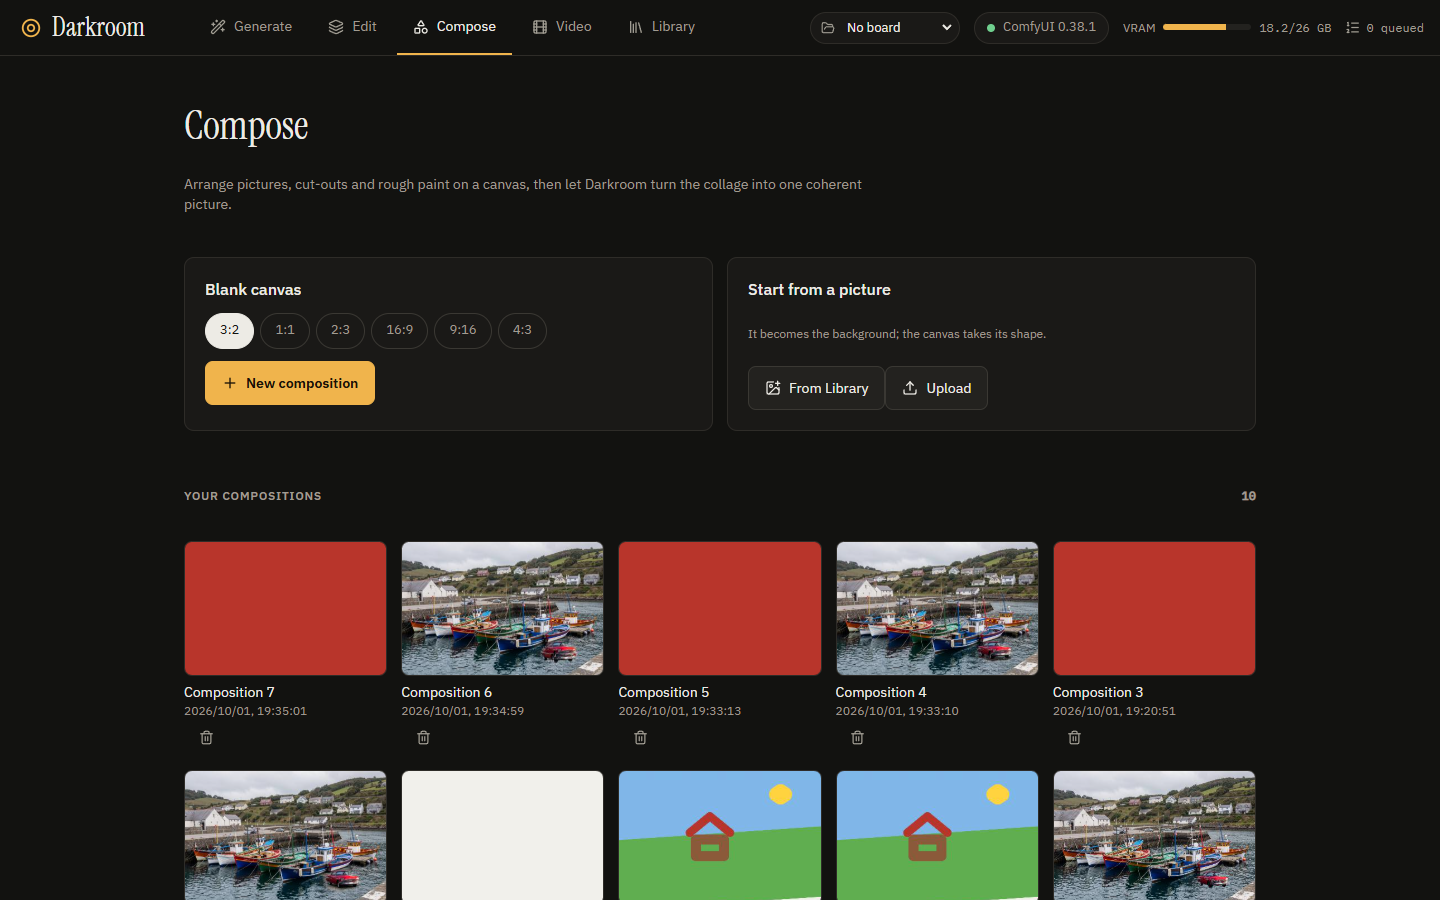
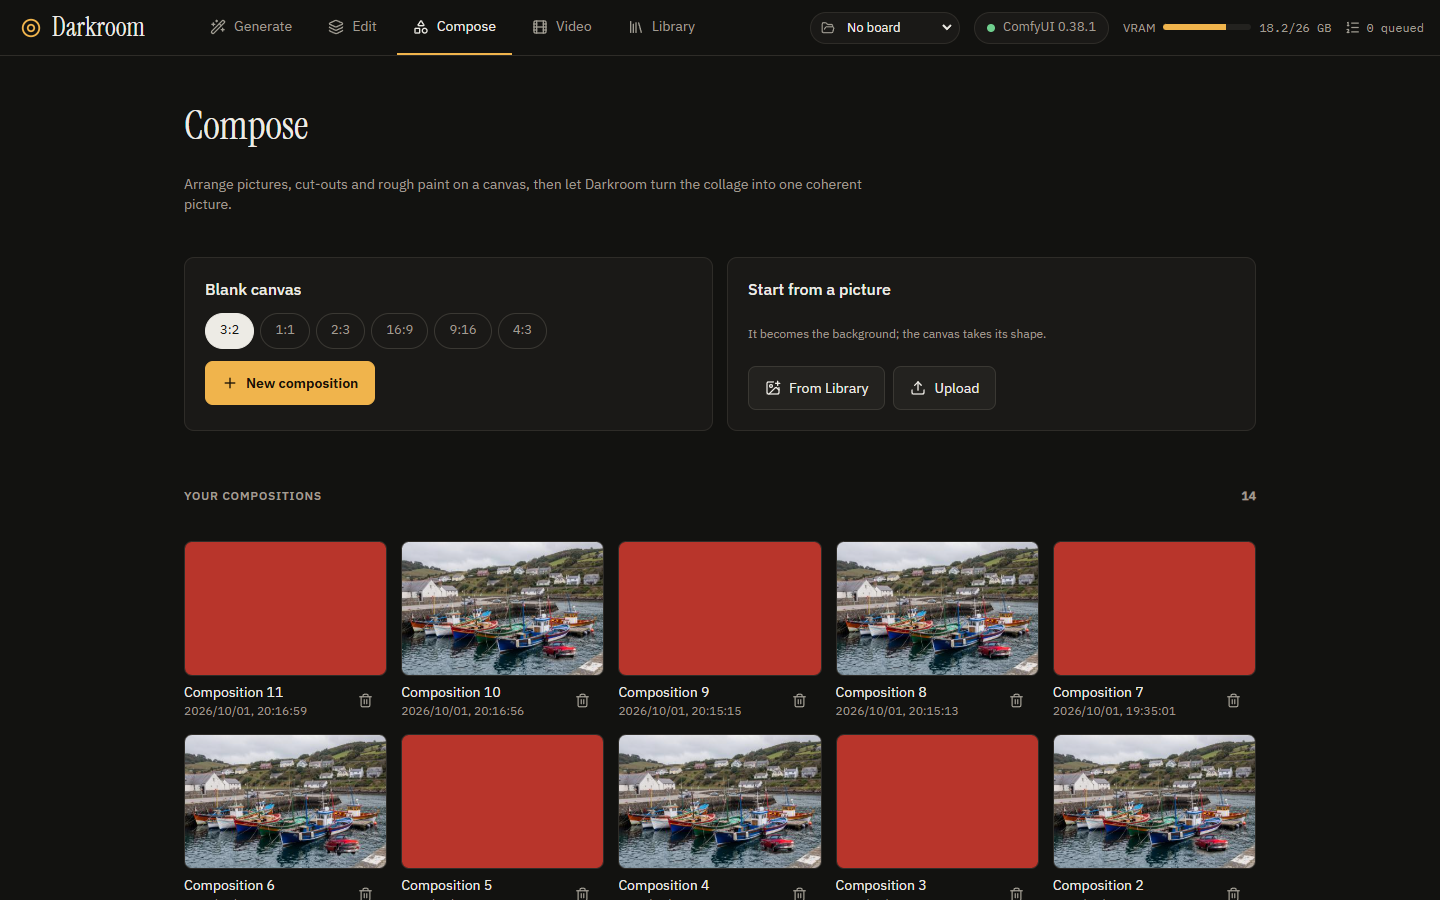
Compose: erase parts of pictures and cut-outs (saved as a new file, Undo restores); compose-row layout fix

Changed region(s): [[0.125, 0.7778, 0.875, 1.0], [0.625, 0.4044, 0.6875, 0.4356], [0.375, 0.7156, 0.4062, 0.7467]]

diff --git a/src/web/screens/Compose.tsx b/src/web/screens/Compose.tsx
@@ -137,7 +137,7 @@ function ComposeStart() {
           <section className="compose-new-card" aria-label="Start from a picture">
             <h2>Start from a picture</h2>
             <p className="note">It becomes the background; the canvas takes its shape.</p>
-            <div className="row" style={{ gap: 8 }}>
+            <div className="compose-row" style={{ gap: 8 }}>
               <button className="btn" onClick={() => setPicking(true)} disabled={busy}>
                 <ImagePlus size={16} /> From Library
               </button>
@@ -164,7 +164,7 @@ function ComposeStart() {
                 <button className="compose-thumb" onClick={() => go('compose', c.id)} aria-label={`Open ${c.name}`}>
                   {c.thumb ? <img src={c.thumb} alt="" /> : <span className="note">No preview</span>}
                 </button>
-                <div className="row" style={{ justifyContent: 'space-between', gap: 6 }}>
+                <div className="compose-row" style={{ justifyContent: 'space-between', gap: 6 }}>
                   <span className="compose-name" title={c.name}>
                     {c.name}
                     <small className="note">{new Date(c.updated_at).toLocaleString()}</small>
@@ -189,7 +189,7 @@ function ComposeStart() {
 type Drag =
   | { kind: 'move'; id: string; sx: number; sy: number; ox: number; oy: number; before: ComposeDoc }
   | { kind: 'scale'; id: string; ax: number; ay: number; w0: number; h0: number; before: ComposeDoc }
-  | { kind: 'paint'; id: string | null; erase: boolean; last: { x: number; y: number }; before: ComposeDoc };
+  | { kind: 'paint'; id: string | null; erase: boolean; picture?: boolean; last: { x: number; y: number }; before: ComposeDoc };
 
 function ComposeEditor({ id }: { id: string }) {
   const [name, setName] = useState('');
@@ -206,6 +206,9 @@ function ComposeEditor({ id }: { id: string }) {
   const [jobIds, setJobIds] = useState<string[]>([]);
   const [view, setView] = useState<string | null>(null);
   const [busyLayer, setBusyLayer] = useState<string | null>(null);
+  /** Erasing a picture: it is drawn on a working canvas at full resolution (shown in its place) until saved. */
+  const [erasingId, setErasingId] = useState<string | null>(null);
+  const eraseWork = useRef<{ id: string; canvas: HTMLCanvasElement } | null>(null);
   const [picking, setPicking] = useState(false);
   const [rendering, setRendering] = useState(false);
   const [describing, setDescribing] = useState(false);
@@ -417,14 +420,48 @@ function ComposeEditor({ id }: { id: string }) {
     ctx.restore();
   };
 
+  const erasePicture = (l: ComposeLayer, from: { x: number; y: number }, to: { x: number; y: number }) => {
+    const c = eraseWork.current?.canvas;
+    if (!c) return;
+    const map = (q: { x: number; y: number }) => {
+      const u = (q.x - l.x) / l.w;
+      return { x: (l.flip ? 1 - u : u) * c.width, y: ((q.y - l.y) / l.h) * c.height };
+    };
+    const a = map(from);
+    const b = map(to);
+    const ctx = c.getContext('2d')!;
+    ctx.save();
+    ctx.globalCompositeOperation = 'destination-out';
+    ctx.lineWidth = (size * c.width) / l.w;
+    ctx.lineCap = ctx.lineJoin = 'round';
+    ctx.beginPath();
+    ctx.moveTo(a.x, a.y);
+    ctx.lineTo(b.x + 0.01, b.y);
+    ctx.stroke();
+    ctx.restore();
+  };
+
   const onPointerDown = async (e: React.PointerEvent) => {
     if (!doc || e.button !== 0) return;
     const p = toCanvas(e);
     (e.currentTarget as HTMLElement).setPointerCapture(e.pointerId);
     if (tool === 'brush' || tool === 'eraser') {
       const erase = tool === 'eraser';
+      if (erase && sel?.kind === 'picture' && !sel.hidden) {
+        if (busyLayer) return;
+        const img = await loadImg(layerUrl(sel));
+        const c = makeCanvas(img.naturalWidth, img.naturalHeight);
+        c.getContext('2d')!.drawImage(img, 0, 0);
+        c.style.width = c.style.height = '100%';
+        c.style.display = 'block';
+        eraseWork.current = { id: sel.id, canvas: c };
+        setErasingId(sel.id);
+        setDrag({ kind: 'paint', id: sel.id, erase: true, picture: true, last: p, before: doc });
+        erasePicture(sel, p, p);
+        return;
+      }
       const target = sel?.kind === 'paint' ? sel.id : null;
-      if (erase && !target) return toast('Select a paint layer to erase from.', 'info');
+      if (erase && !target) return toast('Select a picture, cut-out or paint layer to erase from.', 'info');
       setDrag({ kind: 'paint', id: target, erase, last: p, before: doc });
       strokeTo(p, p, erase, target ? paint(target)! : null);
       return;
@@ -450,7 +487,11 @@ function ComposeEditor({ id }: { id: string }) {
   const onPointerMove = (e: React.PointerEvent) => {
     if (!drag || !doc) return;
     const p = toCanvas(e);
-    if (drag.kind === 'paint') {
+    if (drag.kind === 'paint' && drag.picture) {
+      const l = doc.layers.find((x) => x.id === drag.id);
+      if (l) erasePicture(l, drag.last, p);
+      setDrag({ ...drag, last: p });
+    } else if (drag.kind === 'paint') {
       strokeTo(drag.last, p, drag.erase, drag.id ? paint(drag.id)! : null);
       setDrag({ ...drag, last: p });
     } else if (drag.kind === 'move') {
@@ -471,6 +512,29 @@ function ComposeEditor({ id }: { id: string }) {
     setDrag(null);
     if (d.kind !== 'paint') {
       if (d.before !== doc) commit(doc, d.before);
+      return;
+    }
+    if (d.picture) {
+      // the erased picture is saved as a new file; the old one stays, so Undo brings it back
+      const work = eraseWork.current;
+      const lid = d.id!;
+      if (!work) return setErasingId(null);
+      setBusyLayer(lid);
+      void (async () => {
+        try {
+          const up = await api.upload(await toBlob(work.canvas), 'erased.png');
+          await loadImg(inputUrl(up.name)); // loaded before it replaces the working canvas: no flicker
+          const cur = docRef.current!;
+          const isBg = cur.layers.findIndex((l) => l.id === lid) === backgroundIndex(cur);
+          commit({ ...cur, layers: cur.layers.map((l) => (l.id === lid ? { ...l, src: up.name, cutout: l.cutout || !isBg } : l)) }, d.before);
+        } catch (err) {
+          toast(`Could not save the erased picture: ${(err as Error).message}`, 'error');
+        } finally {
+          eraseWork.current = null;
+          setErasingId(null);
+          setBusyLayer(null);
+        }
+      })();
       return;
     }
     if (d.erase) {
@@ -605,7 +669,7 @@ function ComposeEditor({ id }: { id: string }) {
   const TOOLS: { id: Tool; label: string; key: string; icon: typeof Brush }[] = [
     { id: 'move', label: 'Move and scale', key: 'V', icon: MousePointer2 },
     { id: 'brush', label: 'Paint', key: 'B', icon: Brush },
-    { id: 'eraser', label: 'Erase paint', key: 'E', icon: Eraser },
+    { id: 'eraser', label: 'Erase', key: 'E', icon: Eraser },
   ];
 
   return (
@@ -654,7 +718,7 @@ function ComposeEditor({ id }: { id: string }) {
           {view ? (
             <div className="compose-view">
               <img src={fileUrl(view)} alt="Render" onError={() => setView(null)} />
-              <div className="row compose-view-bar">
+              <div className="compose-row compose-view-bar">
                 <button className="btn sm" onClick={() => setView(null)}>
                   Back to canvas
                 </button>
@@ -681,6 +745,16 @@ function ComposeEditor({ id }: { id: string }) {
               {doc.layers.map((l) =>
                 l.kind === 'paint' ? (
                   <PaintLayer key={l.id} layer={l} doc={doc} hidden={!!l.hidden} register={(el) => (el ? paintEls.current.set(l.id, el) : paintEls.current.delete(l.id))} />
+                ) : l.id === erasingId ? (
+                  <div
+                    key={l.id}
+                    className="compose-piece"
+                    ref={(el) => {
+                      const c = eraseWork.current?.canvas;
+                      if (el && c && c.parentElement !== el) el.replaceChildren(c);
+                    }}
+                    style={{ left: l.x * scale, top: l.y * scale, width: l.w * scale, height: l.h * scale, transform: l.flip ? 'scaleX(-1)' : undefined }}
+                  />
                 ) : (
                   <img
                     key={l.id}
@@ -742,7 +816,7 @@ function ComposeEditor({ id }: { id: string }) {
       <aside className="panel right" aria-label="Composition settings">
         <div className="panel-scroll">
           <div>
-            <div className="row" style={{ justifyContent: 'space-between' }}>
+            <div className="compose-row" style={{ justifyContent: 'space-between' }}>
               <button className="btn ghost sm" onClick={() => go('compose')}>
                 ← All compositions
               </button>
@@ -758,7 +832,7 @@ function ComposeEditor({ id }: { id: string }) {
 
           <div>
             <h3 className="section-label">Add</h3>
-            <div className="row" style={{ gap: 6, flexWrap: 'wrap' }}>
+            <div className="compose-row" style={{ gap: 6, flexWrap: 'wrap' }}>
               <button className="btn sm" onClick={() => setPicking(true)}>
                 <ImagePlus size={15} /> From Library
               </button>
@@ -787,7 +861,7 @@ function ComposeEditor({ id }: { id: string }) {
               )}
               <input type="range" min={2} max={400} value={size} onChange={(e) => setSize(+e.target.value)} aria-label="Brush size" style={{ width: '100%', marginTop: 8 }} />
               <p className="note">
-                {tool === 'brush' ? 'Rough shapes are fine: Reimagine turns them into the real thing. Paints on the selected paint layer, or starts a new one.' : 'Erases from the selected paint layer.'} [ and ] change the size.
+                {tool === 'brush' ? 'Rough shapes are fine: Reimagine turns them into the real thing. Paints on the selected paint layer, or starts a new one.' : 'Erases from the selected layer: a picture, a cut-out or paint. Ctrl+Z brings it back.'} [ and ] change the size.
               </p>
             </div>
           )}
@@ -808,7 +882,7 @@ function ComposeEditor({ id }: { id: string }) {
                         {l.name}
                         <small className="note">{i === bg ? 'background' : l.kind === 'paint' ? 'paint' : l.cutout ? 'cut-out' : 'picture'}</small>
                       </span>
-                      {busyLayer === l.id && <Loader2 size={14} className="spin" aria-label="Cutting out" />}
+                      {busyLayer === l.id && <Loader2 size={14} className="spin" aria-label="Working" />}
                     </button>
                     <button className="btn ghost sm icon" onClick={() => setLayer(l.id, { hidden: !l.hidden })} aria-label={l.hidden ? `Show ${l.name}` : `Hide ${l.name}`} title={l.hidden ? 'Show' : 'Hide'}>
                       {l.hidden ? <EyeOff size={15} /> : <Eye size={15} />}
@@ -820,7 +894,7 @@ function ComposeEditor({ id }: { id: string }) {
             {sel && (
               <div className="compose-layer-actions" role="group" aria-label={`${sel.name} actions`}>
                 <input className="input" aria-label="Layer name" value={sel.name} onChange={(e) => setDocState({ ...doc, layers: doc.layers.map((l) => (l.id === sel.id ? { ...l, name: e.target.value } : l)) })} />
-                <div className="row" style={{ gap: 4, flexWrap: 'wrap' }}>
+                <div className="compose-row" style={{ gap: 4, flexWrap: 'wrap' }}>
                   {sel.kind === 'picture' && !sel.cutout && (
                     <button className="btn sm" onClick={() => void cutOut(sel)} disabled={!!busyLayer} title="Remove its background (about 2 s); the cut-out also goes into your Library">
                       <Scissors size={15} /> Cut out
@@ -866,7 +940,7 @@ function ComposeEditor({ id }: { id: string }) {
             {MODES.find((m) => m.id === mode)!.text}
             {doc.mode === 'auto' ? ` Suggested because ${auto.why}.` : ''}
           </p>
-          <div className="row" style={{ justifyContent: 'space-between', alignItems: 'center', width: '100%' }}>
+          <div className="compose-row" style={{ justifyContent: 'space-between', alignItems: 'center', width: '100%' }}>
             <span className="note">Scene (optional)</span>
             <button className="btn sm" onClick={() => void describe()} disabled={describing || !doc.layers.length} title="Let the local vision model describe the real scene your canvas stands for">
               {describing ? <Loader2 size={14} className="spin" /> : <Sparkles size={14} />} Describe

diff --git a/e2e/features-v2.spec.ts b/e2e/features-v2.spec.ts
@@ -655,6 +655,34 @@ test.describe.serial('Darkroom v2 features', () => {
     expect(Math.round((await sel.boundingBox())!.width)).toBe(Math.round(after.width));
     await shot(page, 'compose-placed');
 
+    // erase part of the cut-out: a new picture file with more transparency; Ctrl+Z brings the old one back
+    const srcOf = async () => {
+      const r = await (await page.request.get(`/api/compositions/${compositionUrl.split('/').pop()}`)).json();
+      return r.doc.layers.find((l: any) => l.name === '09_car').src as string;
+    };
+    const transparent = async (src: string) => {
+      const { data, info } = await sharp(Buffer.from(await (await page.request.get(`/api/input?name=${encodeURIComponent(src)}`)).body())).ensureAlpha().raw().toBuffer({ resolveWithObject: true });
+      let n = 0;
+      for (let i = 3; i < data.length; i += 4) if (data[i] < 16) n++;
+      return n / (info.width * info.height);
+    };
+    await expect(page.getByText('Saved', { exact: true })).toBeVisible({ timeout: 10_000 });
+    const src0 = await srcOf();
+    await page.keyboard.press('e');
+    await page.getByLabel('Brush size').fill('40');
+    const car = (await page.locator('.compose-piece').last().boundingBox())!;
+    await page.mouse.move(car.x + car.width * 0.1, car.y + car.height * 0.5);
+    await page.mouse.down();
+    await page.mouse.move(car.x + car.width * 0.4, car.y + car.height * 0.5, { steps: 6 });
+    await page.mouse.up();
+    await expect.poll(srcOf, { timeout: 20_000 }).not.toBe(src0);
+    const src1 = await srcOf();
+    expect(await transparent(src1)).toBeGreaterThan((await transparent(src0)) + 0.02);
+    await shot(page, 'compose-erased');
+    await page.keyboard.press('Control+z');
+    await expect.poll(srcOf, { timeout: 10_000 }).toBe(src0);
+    await page.keyboard.press('v');
+
     // photo pieces → Harmonise is suggested (Qwen)
     const modes = page.getByRole('group', { name: 'Render mode' });
     await expect(modes.getByRole('button', { name: /Harmonise/ })).toHaveAttribute('aria-pressed', 'true');
@@ -717,7 +745,7 @@ test.describe.serial('Darkroom v2 features', () => {
     }
     await expect(page.locator('.compose-layers li')).toHaveCount(1);
     await expect(page.getByRole('group', { name: 'Render mode' }).getByRole('button', { name: /Reimagine/ })).toContainText('Suggested', { timeout: 5_000 });
-    await page.getByRole('button', { name: 'Erase paint (E)' }).click();
+    await page.getByRole('button', { name: 'Erase (E)' }).click();
     await page.mouse.move(c.x + c.width / 2, c.y + 10);
     await page.mouse.down();
     await page.mouse.move(c.x + c.width / 2, c.y + c.height - 10, { steps: 5 });

diff --git a/src/web/styles.css b/src/web/styles.css
@@ -358,3 +358,4 @@ button.logo svg { transition: transform .2s; }
 .compose-layer-actions { display: flex; flex-direction: column; gap: 8px; margin-top: 10px; padding-top: 10px; border-top: 1px solid var(--line); }
 .compose-modes { display: grid; grid-template-columns: repeat(3, 1fr); gap: 6px; }
 .compose-modes .card { padding: 10px 8px; min-height: 0; }
+.compose-row { display: flex; align-items: center; gap: 8px; min-width: 0; }
